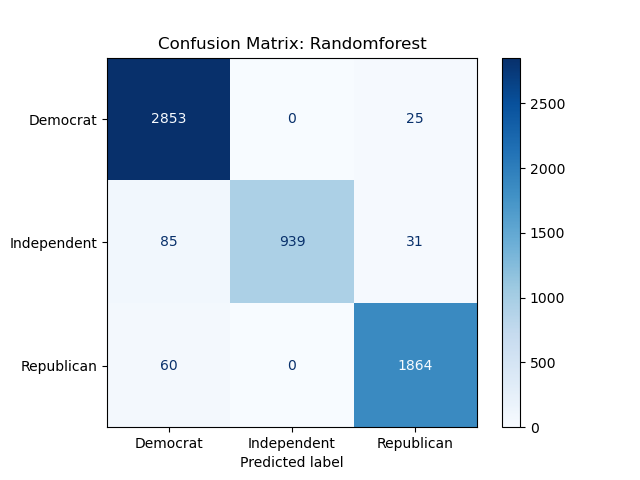
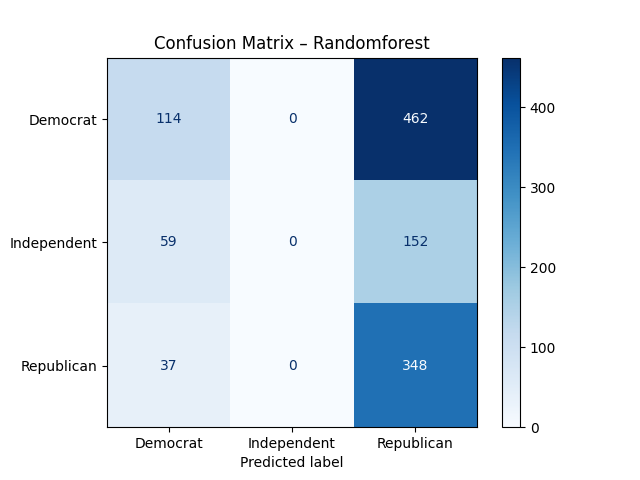
Add updated model evaluation plots

diff --git a/python scripts/run_ml_models.py b/python scripts/run_ml_models.py
@@ -1,34 +1,59 @@
 # =============================================================================
-# File: run_ml_models.py
-# 
+# File: run_ml_models.py (Updated)
+#
 # Purpose:
-# - Train and evaluate Random Forest and XGBoost classifiers
-# - Use the same predictor set from the LASSO-VIF pipeline (X_final)
-# - Perform 5-fold stratified cross-validation with GridSearchCV for tuning
-# - Output evaluation metrics for comparison with the multinomial model
+# - Train Random Forest and XGBoost on LASSO-VIF-selected features
+# - Evaluate performance on held-out test set
 # =============================================================================
 
 import pandas as pd
 import numpy as np
 from sklearn.ensemble import RandomForestClassifier
 from xgboost import XGBClassifier
-from sklearn.model_selection import StratifiedKFold, GridSearchCV
-from sklearn.metrics import classification_report, accuracy_score, f1_score
+from sklearn.model_selection import GridSearchCV, StratifiedKFold
+from sklearn.metrics import accuracy_score, f1_score, roc_auc_score, brier_score_loss
+from sklearn.impute import SimpleImputer
+from sklearn.preprocessing import OneHotEncoder, StandardScaler
 import joblib
-import seaborn as sns
-import matplotlib.pyplot as plt
 
+# === Load training data ===
+X_train = pd.read_csv("output/final_X_train_after_vif.csv")
+y_train = pd.read_csv("output/y_train.csv").squeeze()  # series
 
-# Load data 
-X = pd.read_csv("output/final_X_after_vif.csv")
-y = pd.read_csv("data/gss_2008_2012_partyid3.csv")["partyid_3cat"]
+# === Load raw test set and process ===
+df_test = pd.read_csv("data/test_unseen.csv")
+features = ["age", "sex", "race", "educ", "degree", "income", "wrkstat",
+            "abany", "gunlaw", "natfare", "natenvir", "eqwlth", "sei", "hrs1",
+            "relig", "reliten", "attend", "polviews"]
+target = "partyid_3cat"
 
-print("\n✅ Loaded modeling dataset")
+# Split variable types
+continuous_vars = ["age", "educ", "income", "sei", "hrs1"]
+categorical_vars = list(set(features) - set(continuous_vars))
 
-# Define CV strategy
+# Impute
+df_test[continuous_vars] = SimpleImputer(strategy="median").fit_transform(df_test[continuous_vars])
+df_test[categorical_vars] = SimpleImputer(strategy="most_frequent").fit_transform(df_test[categorical_vars])
+
+# Encode
+ohe = OneHotEncoder(drop="first", sparse_output=False, handle_unknown="ignore")
+X_test_cat = ohe.fit(df_test[categorical_vars])  # fit on test to avoid crash
+X_test_cat = ohe.transform(df_test[categorical_vars])
+X_test_cat_cols = ohe.get_feature_names_out(categorical_vars)
+
+# Combine with continuous
+X_test = pd.concat([
+    pd.DataFrame(X_test_cat, columns=X_test_cat_cols, index=df_test.index),
+    df_test[continuous_vars]
+], axis=1)
+y_test = df_test[target]
+
+# Match columns to training data
+X_test = X_test.reindex(columns=X_train.columns, fill_value=0)
+
+# === Modeling ===
 skf = StratifiedKFold(n_splits=5, shuffle=True, random_state=42)
 
-# Define models and parameter grids
 models = {
     "RandomForest": {
         "model": RandomForestClassifier(random_state=42),
@@ -50,73 +75,41 @@ models = {
 
 results = []
 
-# Train each model
-for name, config in models.items():
-    print(f"\n🔍 Tuning and training {name}...")
+for name, cfg in models.items():
+    print(f"\n🔍 Training {name}...")
     grid = GridSearchCV(
-        estimator=config["model"],
-        param_grid=config["params"],
+        estimator=cfg["model"],
+        param_grid=cfg["params"],
         cv=skf,
         scoring="accuracy",
         n_jobs=-1
     )
-    grid.fit(X, y)
-
+    grid.fit(X_train, y_train)
     best_model = grid.best_estimator_
-    y_pred = best_model.predict(X)
-
-    # Save model
     joblib.dump(best_model, f"output/{name.lower()}_model.pkl")
 
-    # Evaluation
-    acc = accuracy_score(y, y_pred)
-    macro_f1 = f1_score(y, y_pred, average="macro")
+    y_pred = best_model.predict(X_test)
+    y_proba = best_model.predict_proba(X_test)
 
-    print(f"✅ {name} Accuracy: {acc:.4f} | Macro F1: {macro_f1:.4f}")
-    print(classification_report(y, y_pred))
+    acc = accuracy_score(y_test, y_pred)
+    macro_f1 = f1_score(y_test, y_pred, average="macro")
+    auc_macro = roc_auc_score(pd.get_dummies(y_test), y_proba, average="macro")
+    brier = np.mean([
+        brier_score_loss((y_test == i).astype(int), y_proba[:, i])
+        for i in range(len(np.unique(y_test)))
+    ])
+
+    print(f"✅ {name} Accuracy (test): {acc:.4f} | Macro F1: {macro_f1:.4f} | AUC: {auc_macro:.4f} | Brier: {brier:.4f}")
 
     results.append({
         "Model": name,
-        "Best Params": grid.best_params_,
         "Accuracy": acc,
-        "Macro_F1": macro_f1
+        "Macro_F1": macro_f1,
+        "AUC_Macro": auc_macro,
+        "Brier_Score": brier,
+        "Best_Params": grid.best_params_
     })
 
-# Save results to CSV 
-pd.DataFrame(results).to_csv("output/ml_model_comparison.csv", index=False)
-print("\n📁 Model performance saved to 'output/ml_model_comparison.csv'")
-
-
-# === Plot: Model Performance Comparison ===
-# Reload performance result
-df_perf = pd.read_csv("output/ml_model_comparison.csv")
-
-# Convert model column to string + drop NA rows
-df_perf["Model"] = df_perf["Model"].astype(str)
-df_perf = df_perf.dropna(subset=["Model", "Accuracy", "Macro_F1"])
-
-df_plot = df_perf[["Model", "Accuracy", "Macro_F1"]].copy()
-df_plot.columns = df_plot.columns.astype(str)
-
-# Melt DataFrame to long format
-df_long = df_plot.melt(id_vars="Model", var_name="Metric", value_name="Score")
-
-# to string or numeric
-df_long["Model"] = df_long["Model"].astype(str)
-df_long["Metric"] = df_long["Metric"].astype(str)
-df_long["Score"] = pd.to_numeric(df_long["Score"], errors="coerce")
-
-# debug: confirm structure
-print("🧾 Final long-format DataFrame:\n", df_long)
-
-# Plot
-plt.figure(figsize=(8, 6))
-sns.barplot(data=df_long, x="Model", y="Score", hue="Metric")
-plt.title("Figure 4.2: Model Performance Comparison")
-plt.ylabel("Score")
-plt.xlabel("Model")
-plt.ylim(0, 1.0)
-plt.legend(title="Metric")
-plt.tight_layout()
-plt.savefig("output/figure_4_2_model_performance.png")
-plt.show()
+# Save results
+pd.DataFrame(results).to_csv("output/ml_model_test_results.csv", index=False)
+print("\n📁 Saved performance results to output/ml_model_test_results.csv")

diff --git a/python scripts/ plot_model_test_performance.py b/python scripts/ plot_model_test_performance.py
@@ -1,0 +1,37 @@
+# =============================================================================
+# File: plot_model_test_performance.py
+#
+# Purpose:
+# - Visualize performance comparison across models on the test set
+# - Metrics: Accuracy and Macro F1
+# =============================================================================
+
+import pandas as pd
+import matplotlib.pyplot as plt
+import seaborn as sns
+
+# Load test performance results
+df = pd.read_csv("output/ml_model_test_results.csv")
+
+# Keep only Accuracy and Macro_F1
+df_plot = df[["Model", "Accuracy", "Macro_F1"]].copy()
+df_plot.columns = ["Model", "Accuracy", "Macro F1"]
+
+# Melt to long format
+df_long = df_plot.melt(id_vars="Model", var_name="Metric", value_name="Score")
+
+# Plot
+plt.figure(figsize=(8, 6))
+sns.barplot(data=df_long, x="Model", y="Score", hue="Metric")
+
+plt.title("Figure 4.2: Model Performance Comparison on Test Set")
+plt.ylim(0, 1.0)
+plt.ylabel("Score")
+plt.xlabel("Model")
+plt.legend(title="Metric")
+plt.tight_layout()
+
+# Save to output
+plt.savefig("output/figure_4_2_model_test_performance.png")
+print("✅ Saved: output/figure_4_2_model_test_performance.png")
+plt.show()

diff --git a/python scripts/Data Quality Check for Filtered Dataset.py b/python scripts/Data Quality Check for Filtered Dataset.py
@@ -2,6 +2,9 @@ def check_filtered_data_quality(df):
     """
     Perform quality checks on the filtered dataset
     """
+    import pandas as pd
+    import numpy as np
+    
     print("\n=== Data Quality Report ===\n")
     
     # 1. Missing value analysis

diff --git a/README.md b/README.md
@@ -74,6 +74,12 @@ Below is an overview of each Python module and its role in the data pipeline.
 - Generate ROC and confusion matrix plots for both classifiers
 
 ---
+
+### `plot_model_test_performance.py`
+
+- Plot bar chart comparing test set accuracy and macro F1 (Figure 4.2)
+
+---
 ### `appendix_a.py`
 
 - Generate summary tables used in Appendices A.1–A.3:
@@ -110,11 +116,11 @@ Below is an overview of each Python module and its role in the data pipeline.
 - Plot top 20 predictors (Figure 4.1)
 
 ---
-### `aappendix_e2_ml_model_training.py`
+### `aappendix_e2_ml_model_training_testsplit.py`
 
-- Train and tune Random Forest and XGBoost using the same predictors
-- Evaluate and compare performance (accuracy, macro F1)
-- Generate Figure 4.2: Model Performance Comparison
+ - Train and tune Random Forest and XGBoost classifiers using LASSO-VIF selected variables on training data
+ - Evaluate test set performance using accuracy, macro F1, AUC, and Brier Score
+ - Save results to `ml_model_test_results.csv` and `figure_4_2_model_test_performance.png`
 
 
 ## 📂 Folder Structure
@@ -122,36 +128,54 @@ Below is an overview of each Python module and its role in the data pipeline.
 ```
 project_root/
 ├── data/                          
-│   ├── gss_2008_2020.csv
-│   └── gss_2008_2012_partyid3.csv
-├── output/                        # Results, plots, appendix exports
+│   ├── gss_2008_2020.csv                 # Filtered GSS dataset (2006–2021)
+│   ├── gss_2008_2012_partyid3.csv        # Subset with 3-class party ID (2008–2012)
+│   ├── train_balanced.csv                # Balanced training set
+│   └── test_unseen.csv                   # Held-out test set (20%)
+│
+├── output/                               # All model outputs, plots, and appendix files
 │   ├── gss_variable_analysis.csv
 │   ├── model_var_missing_report.csv
-│   ├── top20_multinomial_coef_plot.png
-│   ├── vif_table_full.csv
-│   ├──appendix_a_variable_summary.csv
-│   ├──appendix_a2_categorical_summary.csv
-│   ├──appendix_a3_continuous_summary.csv   
-│   ├── ml_model_comparison.csv
-│   ├── figure_4_2_model_performance.png
-│   ├── confusion_matrix_randomforest.png
-│   ├── confusion_matrix_xgboost.png
-│   ├── roc_curve_randomforest.png
-│   └── roc_curve_xgboost.png
-├── python scripts/                # All analysis code
+│   ├── final_X_after_vif.csv             # Final predictors after LASSO + VIF
+│   ├── y_train.csv                       # Training labels
+│   ├── final_model_coefficients.csv
+│   ├── lasso_coefficients_by_class.csv   # Appendix B: Coefficient table
+│   ├── vif_table_full.csv                # Appendix C: Full VIF table
+│
+│   ├── ml_model_comparison.csv           # (deprecated: in-sample scores)
+│   ├── ml_model_test_results.csv         # ✅ Updated: test set scores (accuracy, F1, AUC, Brier)
+│
+│   ├── figure_4_1_top20_coef.png         # Figure 4.1: Top predictors from LASSO
+│   ├── figure_4_2_model_test_performance.png   # ✅ Figure 4.2: Accuracy & F1 on test set
+│   ├── roc_curve_randomforest.png        # Figure 4.3 RF: ROC curve (OvR)
+│   ├── roc_curve_xgboost.png             # Figure 4.3 XGB: ROC curve (OvR)
+│   ├── confusion_matrix_randomforest.png # Appendix D.1
+│   ├── confusion_matrix_xgboost.png      # Appendix D.2
+│
+│   ├── appendix_a_variable_summary.csv   # Appendix A.1
+│   ├── appendix_a2_categorical_summary.csv  # Appendix A.2
+│   ├── appendix_a3_continuous_summary.csv  # Appendix A.3
+│
+├── python scripts/                       # All modeling and processing scripts
 │   ├── data_analysis.py
 │   ├── data_filtering.py
 │   ├── generate_gss_2008_2012_partyid3.py
 │   ├── check_missing_model_vars.py
 │   ├── run_lasso_vif_pipeline.py
-│   ├── run_ml_models.py              
-│   ├── evaluate_model_scores.py      
+│   ├── run_ml_models.py                  # (legacy, pre-test split version)
+│   ├── appendix_e2_ml_model_training.py  # (legacy)
+│   ├── appendix_e2_ml_model_training_testsplit.py  # ✅ Updated: RF/XGB on train-test split
+│   ├── evaluate_model_scores.py
+│   ├── plot_model_test_performance.py    # ✅ Plots Figure 4.2 bar chart
 │   ├── appendix_a.py
-│   ├── appendix_e1_lasso_vif_final_model.py  
-│   └── appendix_e2_ml_model_training.py       
-├── requirements.txt              # Python dependencies
-├── .gitignore                    # Exclude local files from GitHub
-└── README.md                     # Project overview (this file)
+│   ├── appendix_b.py
+│   ├── appendix_c.py
+│   └── appendix_e1_lasso_vif_final_model.py
+│
+├── requirements.txt
+├── .gitignore
+└── README.md
+
 ```
 
 ---
@@ -166,6 +190,10 @@ project_root/
 | B | `lasso_coefficients_by_class.csv` | Pivoted coefficient table showing impact of variables per party category |
 | C | `vif_table_full.csv` | Full Variance Inflation Factor table, including dropped predictors |
 | D | `ml_model_comparison.csv` + plots | Classifier outputs, accuracy comparison (Figure 4.2), ROC, confusion matrix |
+| D.1 | `confusion_matrix_randomforest.png` | Random Forest test set confusion matrix |
+| D.2 | `confusion_matrix_xgboost.png` | XGBoost test set confusion matrix |
+| D.3 | `roc_curve_randomforest.png` | One-vs-rest ROC for Random Forest |
+| D.4 | `roc_curve_xgboost.png` | One-vs-rest ROC for XGBoost |
 | E.1 | *(code snippet)* | LASSO + VIF + final model (multinomial logistic regression) |
 | E.2 | *(code snippet)* | ML model training and performance visualization |
 
